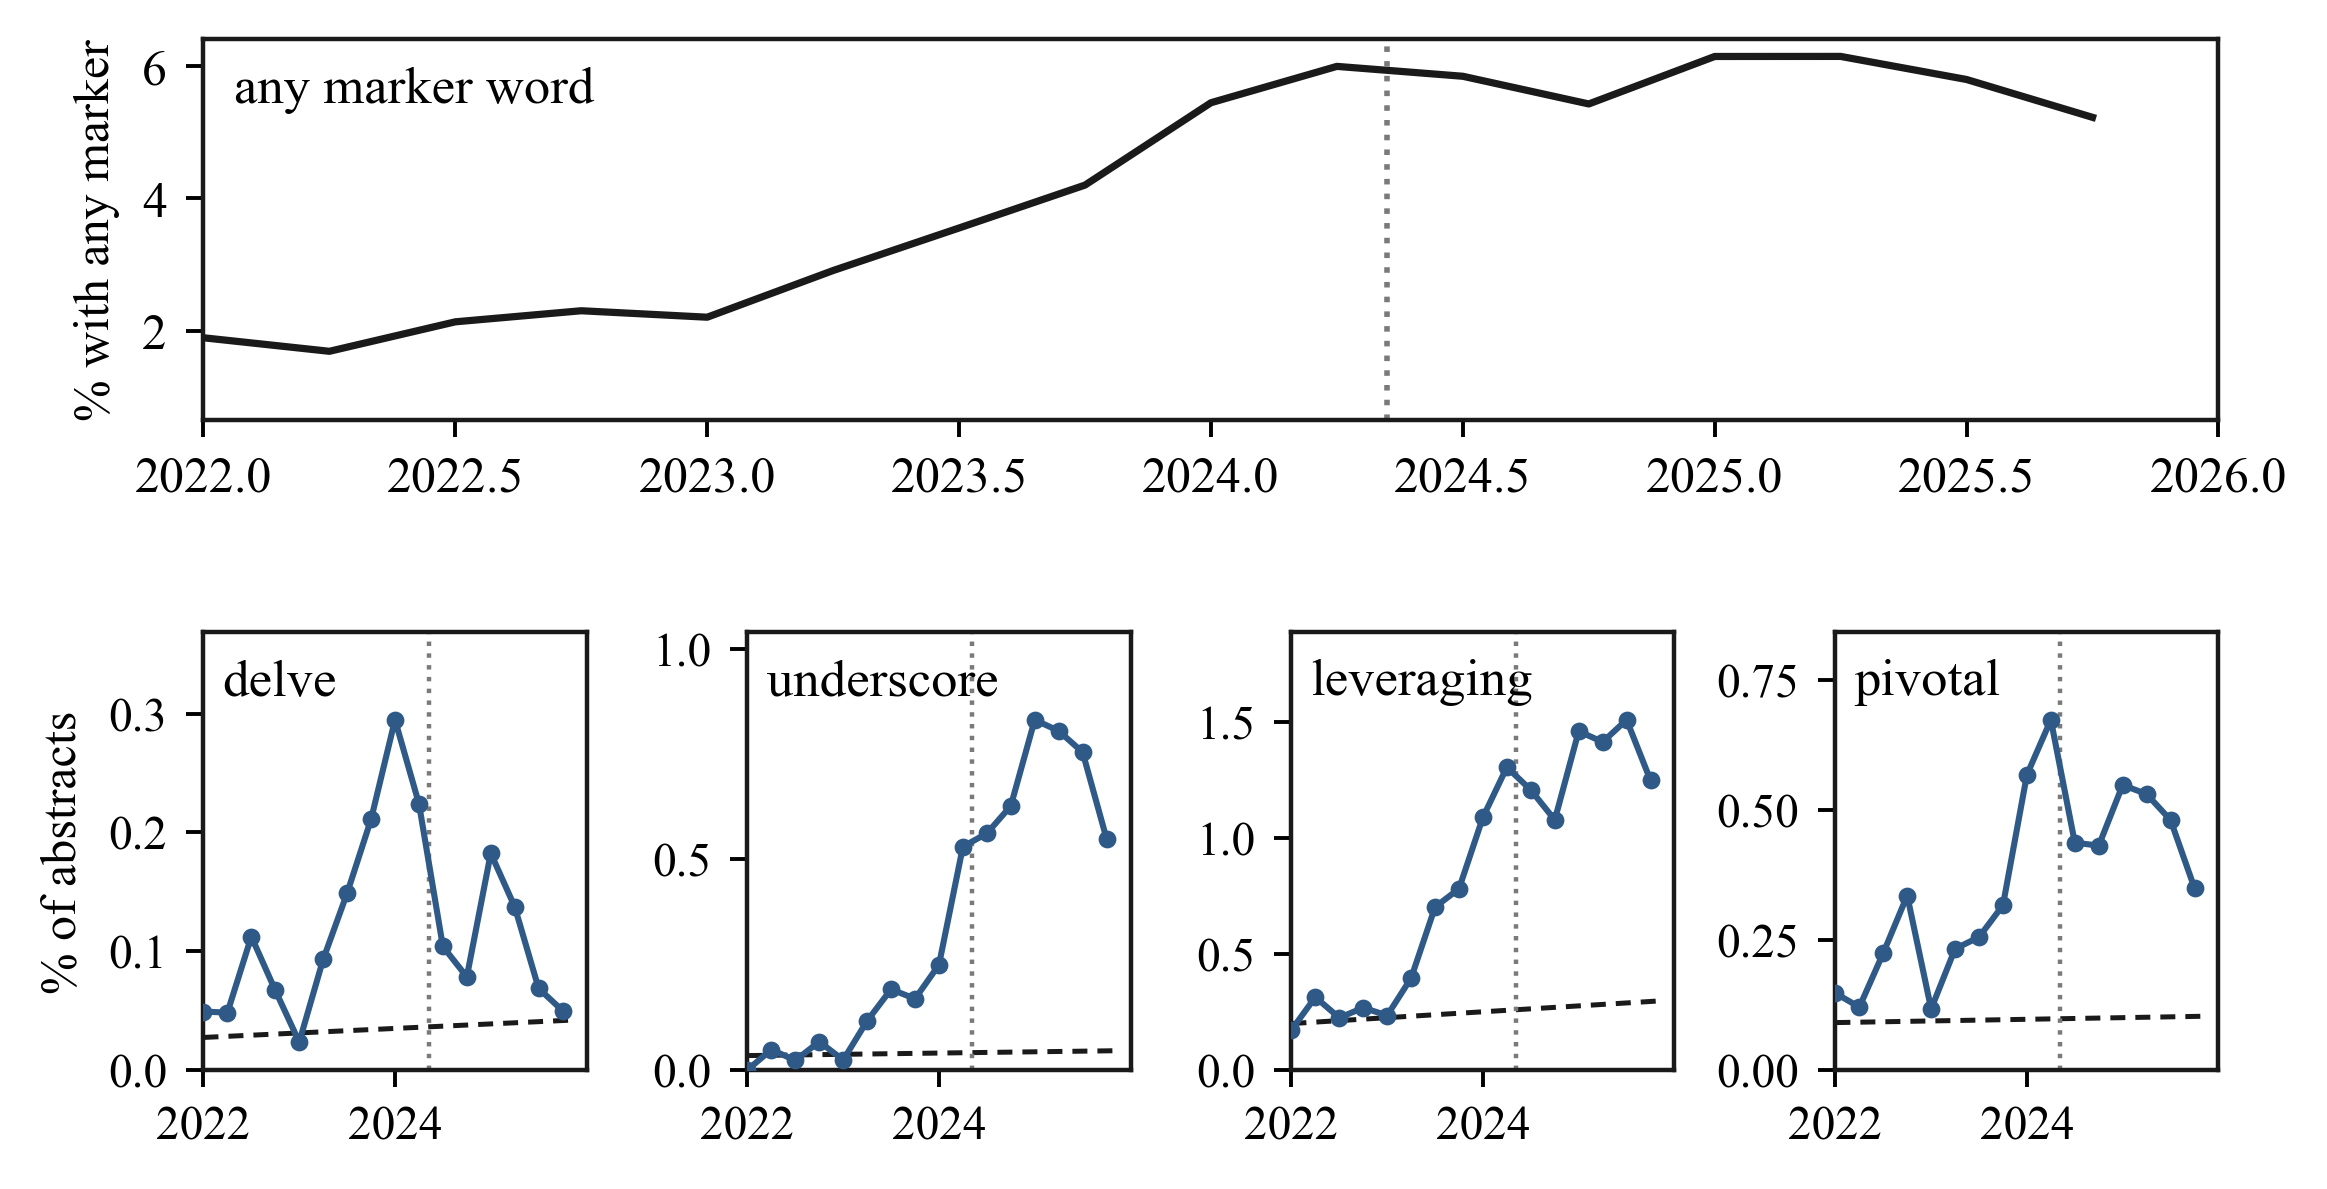
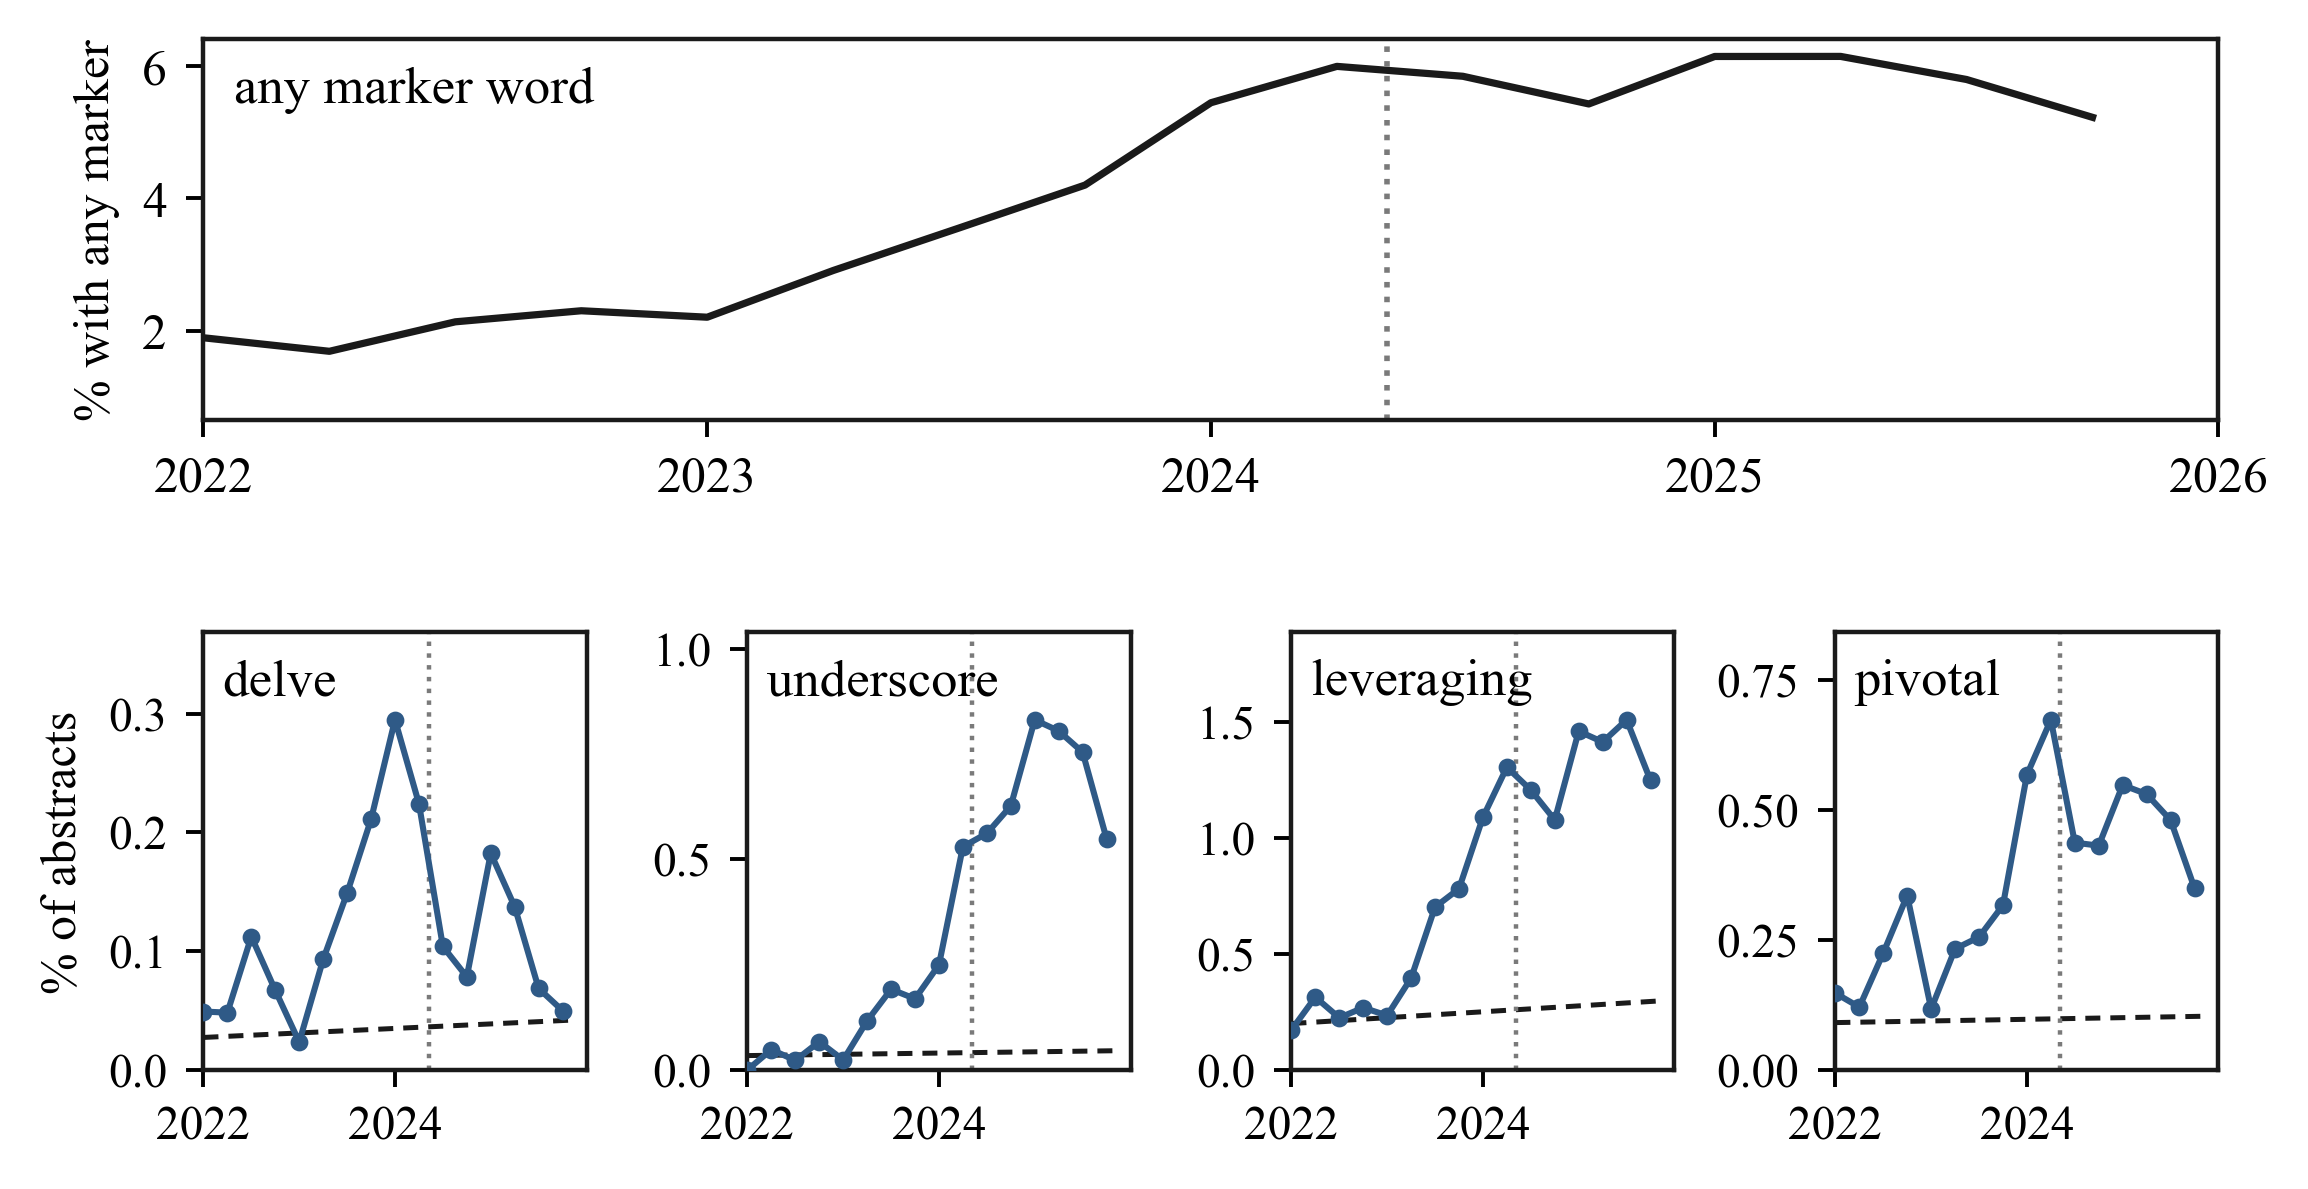
Figure fixes: avoidance x-label length, integer year ticks on the quarterly panel

diff --git a/src/n2_fig.py b/src/n2_fig.py
@@ -56,7 +56,7 @@ def main():
     axB.invert_yaxis()
     axB.set_xlim(0, 9.6)
     axB.set_xticks([0, 2, 4, 6, 8])
-    axB.set_xlabel("Quarters from peak to half of peak excess")
+    axB.set_xlabel("Quarters from peak excess to half")
     axB.text(0.05, 0.08, "(b)", transform=axB.transAxes, fontsize=10)
     axB.text(8.3, 5.35, "Not reached\nby end-2025", fontsize=8, color=C["blue"],
              ha="center", va="bottom")

diff --git a/src/plots.py b/src/plots.py
@@ -86,6 +86,7 @@ def fig2_delve_collapse():
     top.plot(a.yq, a.rate*100, color=C["black"], lw=1.3)
     top.axvline(2024.35, color=C["grey"], ls=":", lw=1.0)
     top.set_xlim(2022, 2026.0)
+    top.set_xticks(range(2022, 2027))
     top.set_ylabel("% with any marker", fontsize=9)
     top.text(0.015, 0.93, "any marker word", transform=top.transAxes,
              va="top", ha="left", fontsize=9.5)
